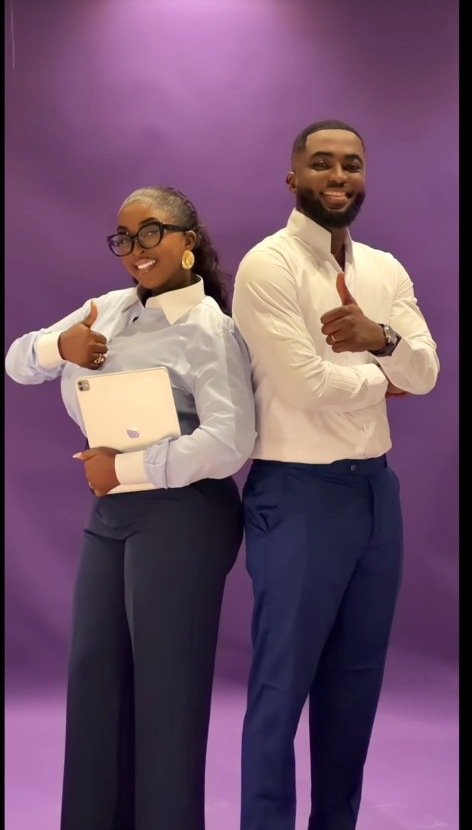
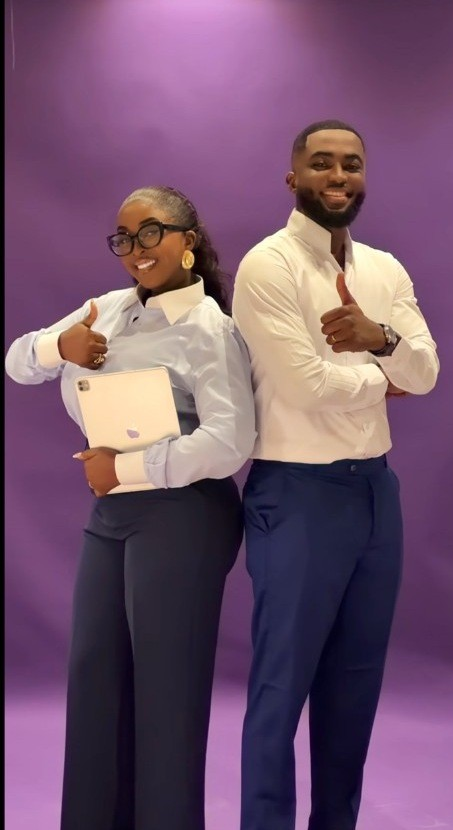
Enable GitHub Pages project deploy for apps/web.
Add Actions workflow, Vite base /yamoo-group/, router basename, asset URL helper, SPA 404 fallback, and static founder film copy. Include updated founder stills.

diff --git a/apps/web/src/pages/AboutPage.tsx b/apps/web/src/pages/AboutPage.tsx
@@ -50,11 +50,11 @@ export function AboutPage() {
       {/* 2 — Notre histoire */}
       <section className="border-b border-ivory/10 bg-[#0b1628]">
         <div className="frame grid items-center gap-10 py-14 lg:grid-cols-2 lg:gap-16 lg:py-20">
-          <figure className="order-2 overflow-hidden rounded-[1.35rem] border border-ivory/10 bg-night lg:order-1">
+          <figure className="order-2 overflow-hidden rounded-[1.35rem] border border-ivory/10 bg-[#0b1628] lg:order-1">
             <img
               src={founderStills.alliance}
               alt={t("group.photoAlliance")}
-              className="aspect-[4/5] w-full object-cover object-[50%_18%] sm:aspect-[5/6]"
+              className="aspect-[4/5] w-full object-contain object-center sm:aspect-[5/6]"
               width={472}
               height={922}
             />
@@ -119,27 +119,27 @@ export function AboutPage() {
             <p className="mt-4 text-[0.95rem] leading-relaxed text-muted sm:text-base">{t("group.peopleBody")}</p>
           </div>
           <div className="mt-10 grid gap-5 sm:grid-cols-2 lg:grid-cols-3">
-            <figure className="overflow-hidden rounded-[1.25rem] border border-ivory/10 bg-night sm:col-span-2 lg:col-span-1">
+            <figure className="overflow-hidden rounded-[1.25rem] border border-ivory/10 bg-[#12081a] sm:col-span-2 lg:col-span-1">
               <img
                 src={founderStills.tabletBlue}
                 alt={t("group.photoTablet")}
-                className="aspect-[3/4] w-full object-cover object-[50%_20%]"
+                className="aspect-[3/4] w-full object-contain object-center"
               />
               <figcaption className="p-4 text-sm text-muted">{t("group.photoTabletCaption")}</figcaption>
             </figure>
-            <figure className="overflow-hidden rounded-[1.25rem] border border-ivory/10 bg-night">
+            <figure className="overflow-hidden rounded-[1.25rem] border border-ivory/10 bg-[#0b1628]">
               <img
                 src={founderStills.ceremonial}
                 alt={t("group.photoCeremonial")}
-                className="aspect-[3/4] w-full object-cover object-[50%_12%]"
+                className="aspect-[3/4] w-full object-contain object-center"
               />
               <figcaption className="p-4 text-sm text-muted">{t("group.photoCeremonialCaption")}</figcaption>
             </figure>
-            <figure className="overflow-hidden rounded-[1.25rem] border border-ivory/10 bg-night">
+            <figure className="overflow-hidden rounded-[1.25rem] border border-ivory/10 bg-[#0b1628]">
               <img
                 src={founderStills.studio}
                 alt={t("group.photoStudio")}
-                className="aspect-[3/4] w-full object-cover object-top"
+                className="aspect-[3/4] w-full object-contain object-center"
               />
               <figcaption className="p-4 text-sm text-muted">{t("group.photoStudioCaption")}</figcaption>
             </figure>

diff --git a/apps/web/vite.config.ts b/apps/web/vite.config.ts
@@ -12,6 +12,10 @@ const founderFilmPath = path.resolve(
   '../../assets/video/WhatsApp Video 2026-11-14 at 22.44.58.mp4',
 )
 
+/** GitHub project Pages: https://helo25-marce.github.io/yamoo-group/ */
+const pagesBase = '/yamoo-group/'
+const isGitHubPages = process.env.GITHUB_PAGES === 'true'
+
 function streamFounderFilm(request: IncomingMessage, response: ServerResponse) {
   if (request.method !== 'GET' && request.method !== 'HEAD') {
     response.statusCode = 405
@@ -69,25 +73,47 @@ function streamFounderFilm(request: IncomingMessage, response: ServerResponse) {
 
 function founderFilmPlugin(): Plugin {
   const attach = (middlewares: Connect.Server) => {
+    // Dev/preview: keep legacy path and new static path.
     middlewares.use('/media/founder', (request, response) => {
+      streamFounderFilm(request, response)
+    })
+    middlewares.use('/media/founder.mp4', (request, response) => {
       streamFounderFilm(request, response)
     })
   }
 
   return {
     name: 'yamoo-founder-film',
-    apply: 'serve',
     configureServer(server) {
       attach(server.middlewares)
     },
     configurePreviewServer(server) {
       attach(server.middlewares)
     },
+    closeBundle() {
+      if (!fs.existsSync(founderFilmPath)) return
+      const outDir = path.resolve(appDir, 'dist/media')
+      fs.mkdirSync(outDir, { recursive: true })
+      fs.copyFileSync(founderFilmPath, path.join(outDir, 'founder.mp4'))
+    },
+  }
+}
+
+/** GitHub Pages SPA: unknown paths must serve index.html (copied as 404.html). */
+function spaFallbackPlugin(): Plugin {
+  return {
+    name: 'yamoo-spa-fallback',
+    closeBundle() {
+      const indexHtml = path.resolve(appDir, 'dist/index.html')
+      if (!fs.existsSync(indexHtml)) return
+      fs.copyFileSync(indexHtml, path.resolve(appDir, 'dist/404.html'))
+    },
   }
 }
 
 export default defineConfig({
-  plugins: [react(), tailwindcss(), founderFilmPlugin()],
+  base: isGitHubPages ? pagesBase : '/',
+  plugins: [react(), tailwindcss(), founderFilmPlugin(), spaFallbackPlugin()],
   server: {
     port: 5173,
     fs: {

diff --git a/apps/web/src/content/visuals.ts b/apps/web/src/content/visuals.ts
@@ -1,3 +1,5 @@
+import { asset } from "../lib/asset"
+
 /** Licensed campaign stills are assigned here later. Empty values keep the designed frames. */
 export const visuals: {
   hero?: string
@@ -9,20 +11,24 @@ export const visuals: {
 
 /** Provisional homepage photographs. They are labeled on the page and can be replaced. */
 export const homeStills = {
-  hero: "/visuals/hero.jpg",
-  header: "/visuals/header-dusk.jpg",
-  atmosphere: "/visuals/home-atmosphere.jpg",
-  media: "/visuals/media.jpg",
-  drive: "/visuals/drive.jpg",
-  travel: "/visuals/travel.jpg",
-  group: "/visuals/group.jpg",
+  hero: asset("visuals/hero.jpg"),
+  header: asset("visuals/header-dusk.jpg"),
+  atmosphere: asset("visuals/home-atmosphere.jpg"),
+  media: asset("visuals/media.jpg"),
+  drive: asset("visuals/drive.jpg"),
+  travel: asset("visuals/travel.jpg"),
+  group: asset("visuals/group.jpg"),
 } as const
 
-/** Founders — Madjouta Kenmoé Michella Ange Sagesse & Amadou Bilal Choub */
+/**
+ * Founders — Madjouta Kenmoé Michella Ange Sagesse & Amadou Bilal Choub
+ * Served only from apps/web/public/visuals/ (Vite public/).
+ * Cache-bust query so browsers do not keep a previous crop under the same path.
+ */
 export const founderStills = {
-  /** Principal — chemises bleu/blanc, tablette (source: image-2a91e674…) */
-  tabletBlue: "/visuals/founders/tablet-blue.jpg",
-  ceremonial: "/visuals/founders/ceremonial.jpg",
-  studio: "/visuals/founders/studio.jpg",
-  alliance: "/visuals/founders/alliance.jpg",
+  /** Principal — bleus + tablette */
+  tabletBlue: `${asset("visuals/founders/tablet-blue.jpg")}?v=508fc1919c1f`,
+  ceremonial: `${asset("visuals/founders/ceremonial.jpg")}?v=1a73f758cae7`,
+  studio: `${asset("visuals/founders/studio.jpg")}?v=611eed5c1db4`,
+  alliance: `${asset("visuals/founders/alliance.jpg")}?v=eb23ee45daf9`,
 } as const

diff --git a/apps/web/src/drive/catalog.ts b/apps/web/src/drive/catalog.ts
@@ -1,13 +1,14 @@
+import { asset } from "../lib/asset"
 import type { DriveVehicle } from "./types"
 
 /** Fictional catalogue — demo rates only, not official YAMOO tariffs. */
 /** Distinct demo crops — replace with HQ fleet photography when available. */
 const fleet = {
-  berline: "/visuals/drive/vehicles/berline-executive.jpg",
-  suv: "/visuals/drive/vehicles/suv-confort.jpg",
-  van: "/visuals/drive/vehicles/van-familial.jpg",
-  prestige: "/visuals/drive/vehicles/prestige-noir.jpg",
-  suvBusiness: "/visuals/drive/vehicles/suv-affaires.jpg",
+  berline: asset("visuals/drive/vehicles/berline-executive.jpg"),
+  suv: asset("visuals/drive/vehicles/suv-confort.jpg"),
+  van: asset("visuals/drive/vehicles/van-familial.jpg"),
+  prestige: asset("visuals/drive/vehicles/prestige-noir.jpg"),
+  suvBusiness: asset("visuals/drive/vehicles/suv-affaires.jpg"),
 } as const
 
 export const DEMO_VEHICLES: DriveVehicle[] = [

diff --git a/apps/web/src/components/ui/Logo.tsx b/apps/web/src/components/ui/Logo.tsx
@@ -3,7 +3,7 @@ import { Link } from "react-router"
 export function Logo({ to, label, className }: { to: string; label: string; className?: string }) {
   return (
     <Link to={to} className="inline-flex shrink-0 items-center rounded-sm" aria-label={label}>
-      <img src="/brand/group-lockup.png" alt="" className={className ?? "h-11 w-auto"} />
+      <img src={`${import.meta.env.BASE_URL}brand/group-lockup.png`} alt="" className={className ?? "h-11 w-auto"} />
     </Link>
   )
 }

diff --git a/apps/web/src/App.tsx b/apps/web/src/App.tsx
@@ -22,9 +22,15 @@ function ScrollToTop() {
   return null
 }
 
+function routerBasename() {
+  const base = import.meta.env.BASE_URL || "/"
+  if (base === "/") return undefined
+  return base.replace(/\/$/, "") || undefined
+}
+
 export function App() {
   return (
-    <BrowserRouter>
+    <BrowserRouter basename={routerBasename()}>
       <ScrollToTop />
       <Routes>
         <Route path="/" element={<Navigate to="/fr" replace />} />

diff --git a/apps/web/src/components/home/FounderFilm.tsx b/apps/web/src/components/home/FounderFilm.tsx
@@ -1,7 +1,7 @@
 import { useEffect, useRef, useState } from "react"
 import { Pause, Play, Volume2, VolumeX } from "lucide-react"
 
-const FILM_URL = "/media/founder"
+const FILM_URL = `${import.meta.env.BASE_URL}media/founder.mp4`
 /** Studio passage. The original file stays intact. Clip: 1:30 → 2:59. */
 const START_SECONDS = 90
 const END_SECONDS = 179

diff --git a/apps/web/src/content/marks.ts b/apps/web/src/content/marks.ts
@@ -1,6 +1,8 @@
+import { asset } from "../lib/asset"
+
 export const marks = {
-  group: "/brand/group.png",
-  media: "/brand/media.png",
-  drive: "/brand/drive.png",
-  travel: "/brand/travel.png",
+  group: asset("brand/group.png"),
+  media: asset("brand/media.png"),
+  drive: asset("brand/drive.png"),
+  travel: asset("brand/travel.png"),
 } as const

diff --git a/apps/web/src/lib/asset.ts b/apps/web/src/lib/asset.ts
@@ -1,0 +1,6 @@
+/** Prefix public asset paths with Vite `base` (required for GitHub Pages project sites). */
+export function asset(path: string) {
+  const base = import.meta.env.BASE_URL || "/"
+  const normalized = path.replace(/^\//, "")
+  return `${base}${normalized}`
+}
